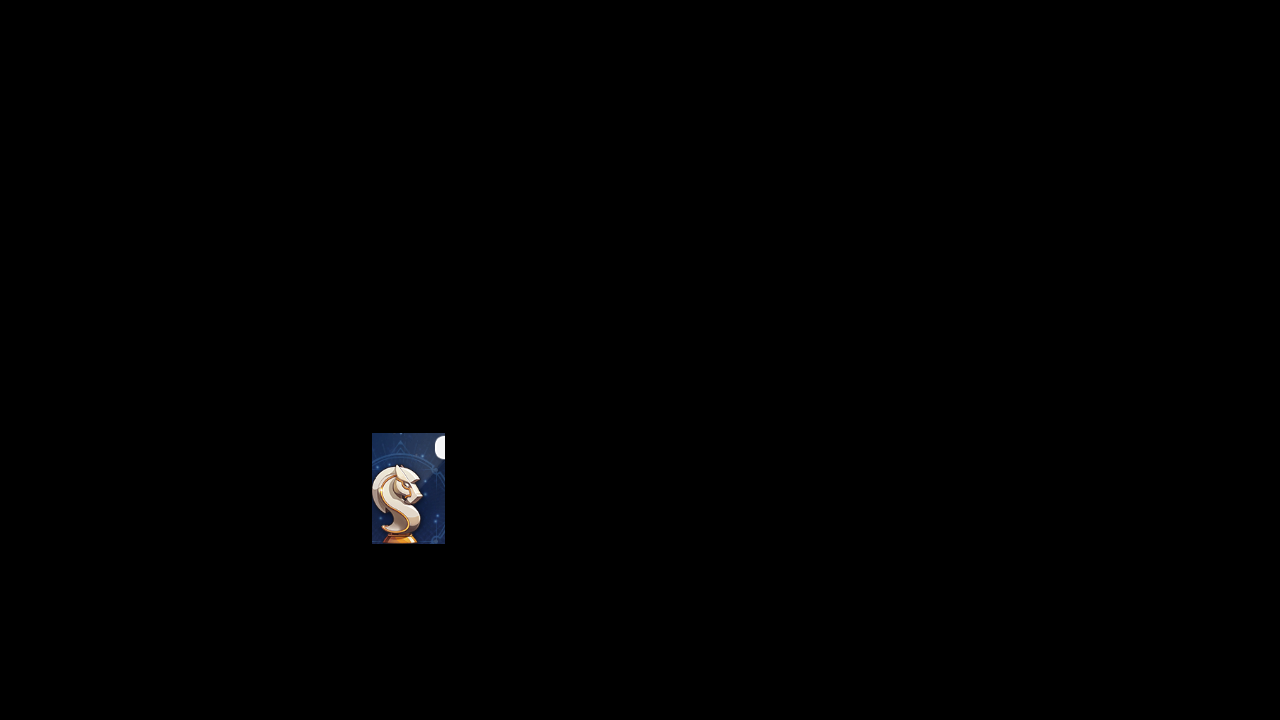
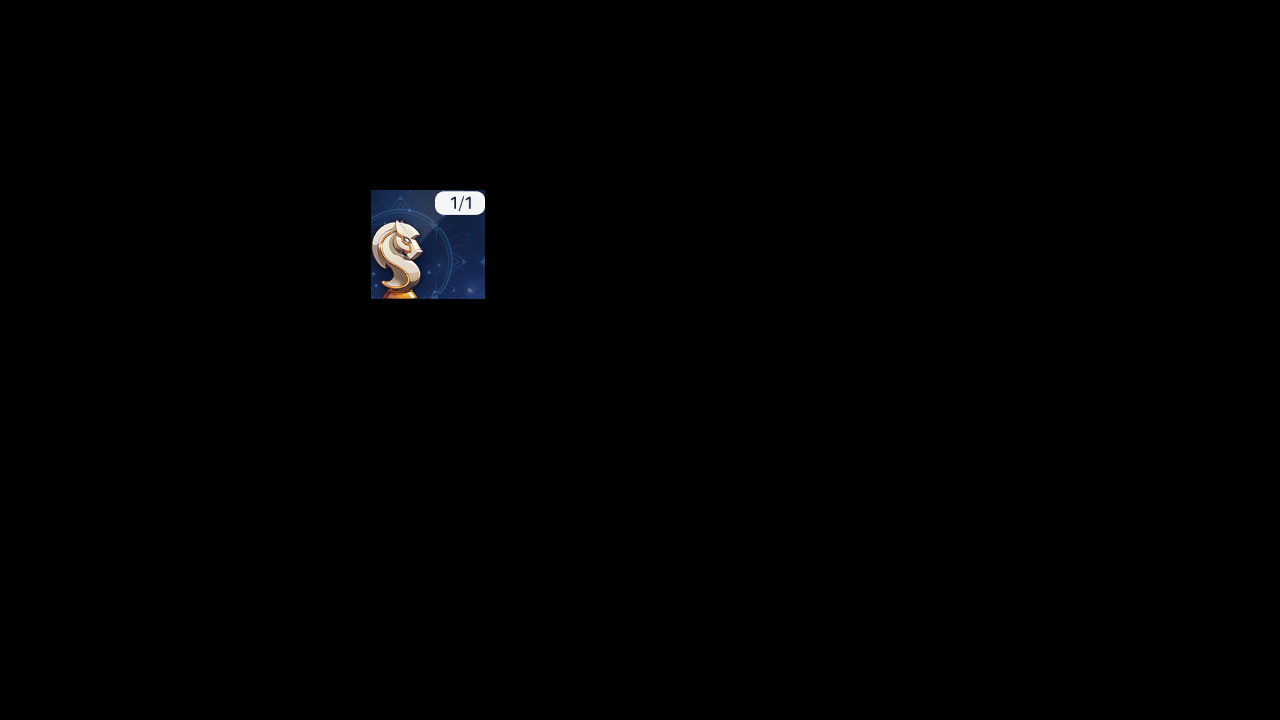
Chore: modify MOBILITY_40 assets to differentiate it from MOBILITY_80

Changed region(s): [[0.2812, 0.2444, 0.4062, 0.4278], [0.2812, 0.5806, 0.375, 0.7639]]

diff --git a/tasks/store/assets/assets_store_current_items.py b/tasks/store/assets/assets_store_current_items.py
@@ -104,10 +104,10 @@ MOBILITY_40 = ButtonWrapper(
     cn=None,
     global_cn=Button(
         file='./assets/global_cn/store/current/items/MOBILITY_40.png',
-        area=(372, 433, 445, 544),
-        search=(352, 413, 465, 564),
-        color=(89, 91, 105),
-        button=(372, 433, 445, 544),
+        area=(371, 190, 485, 299),
+        search=(351, 170, 505, 319),
+        color=(80, 86, 107),
+        button=(371, 190, 485, 299),
     ),
     global_en=None,
 )
